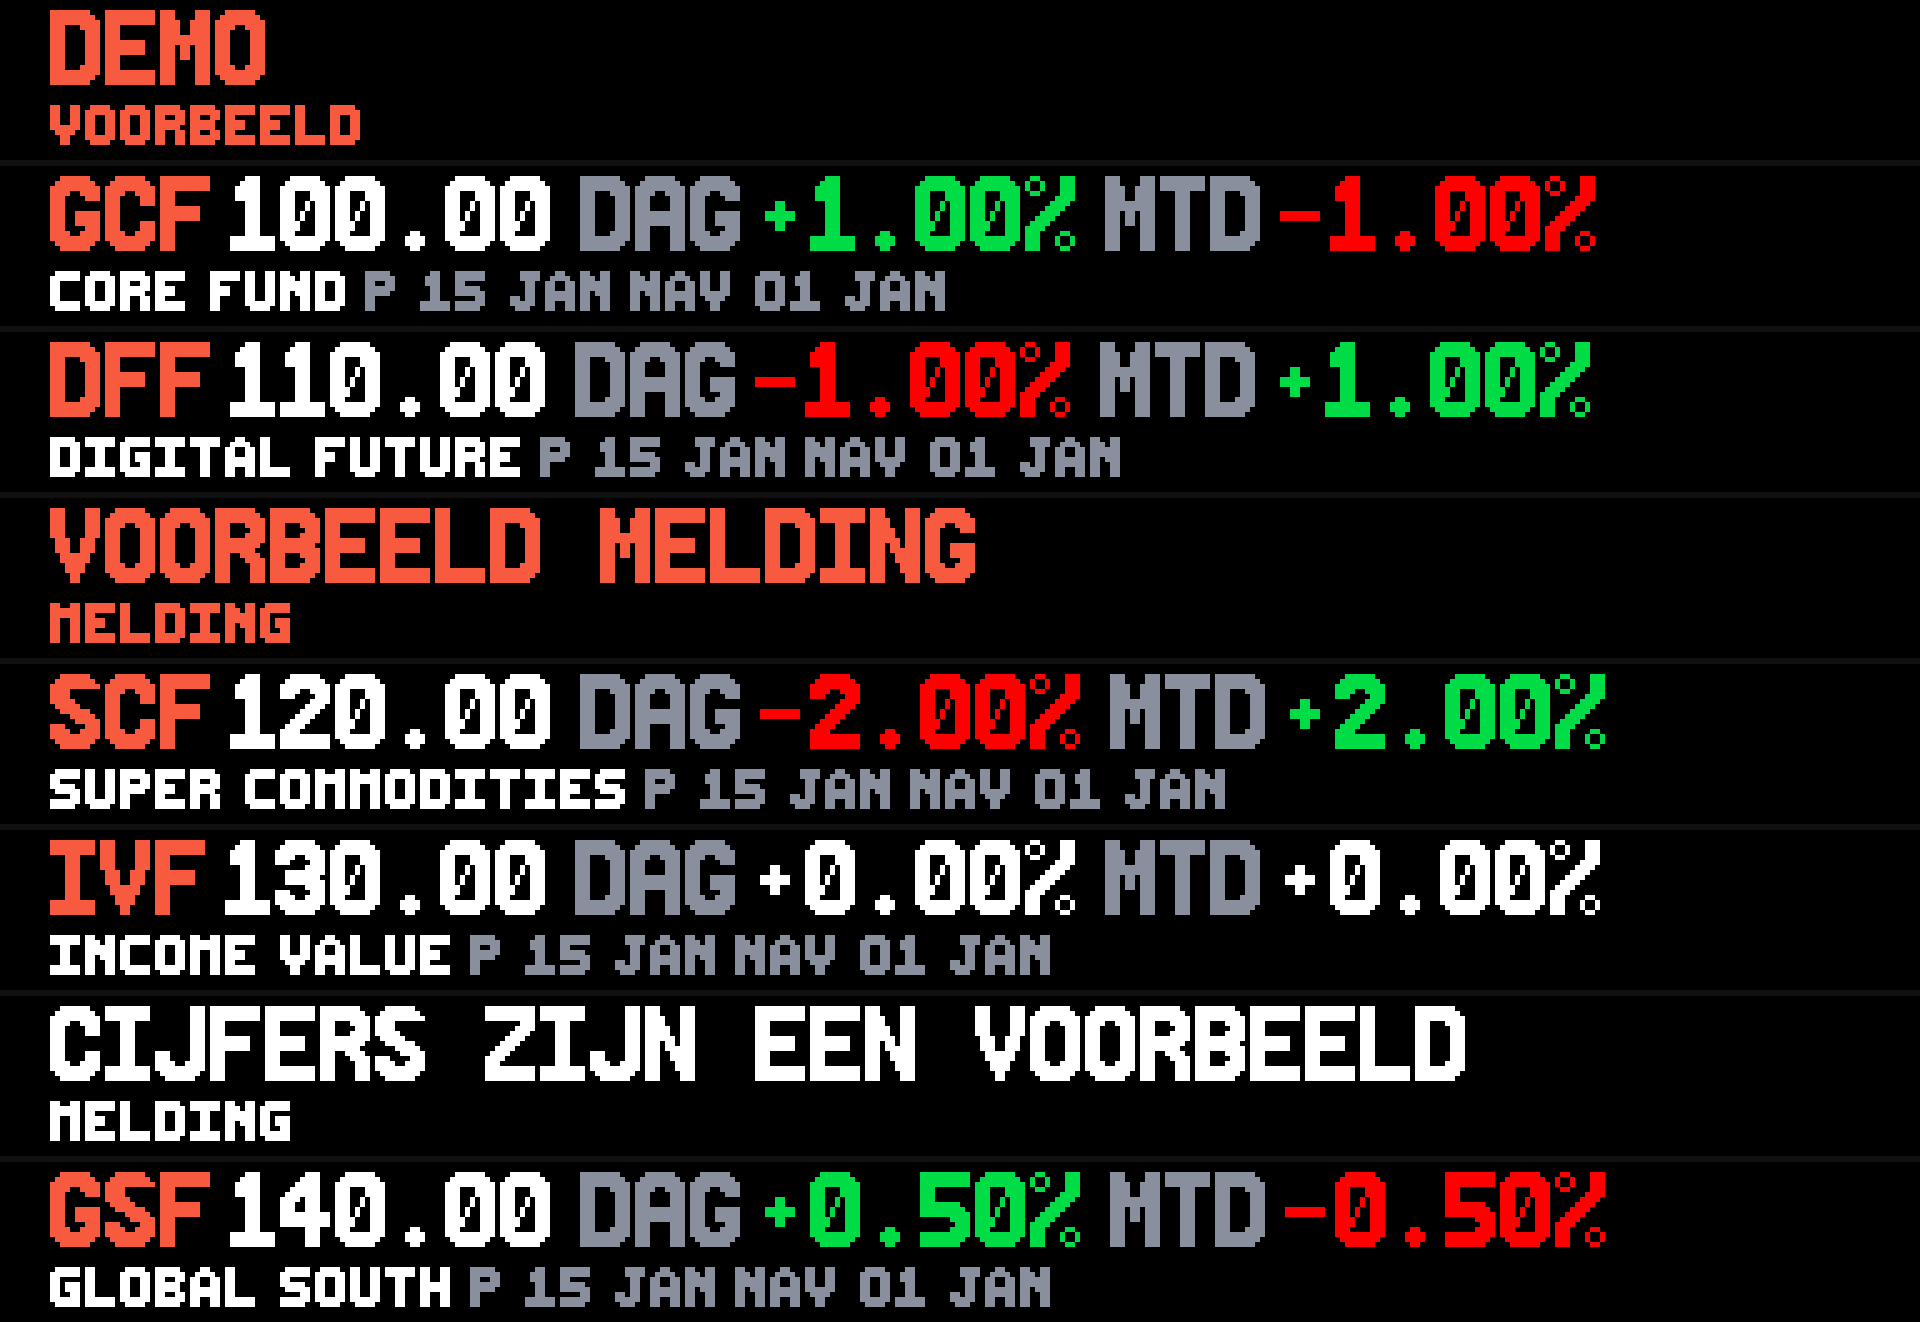
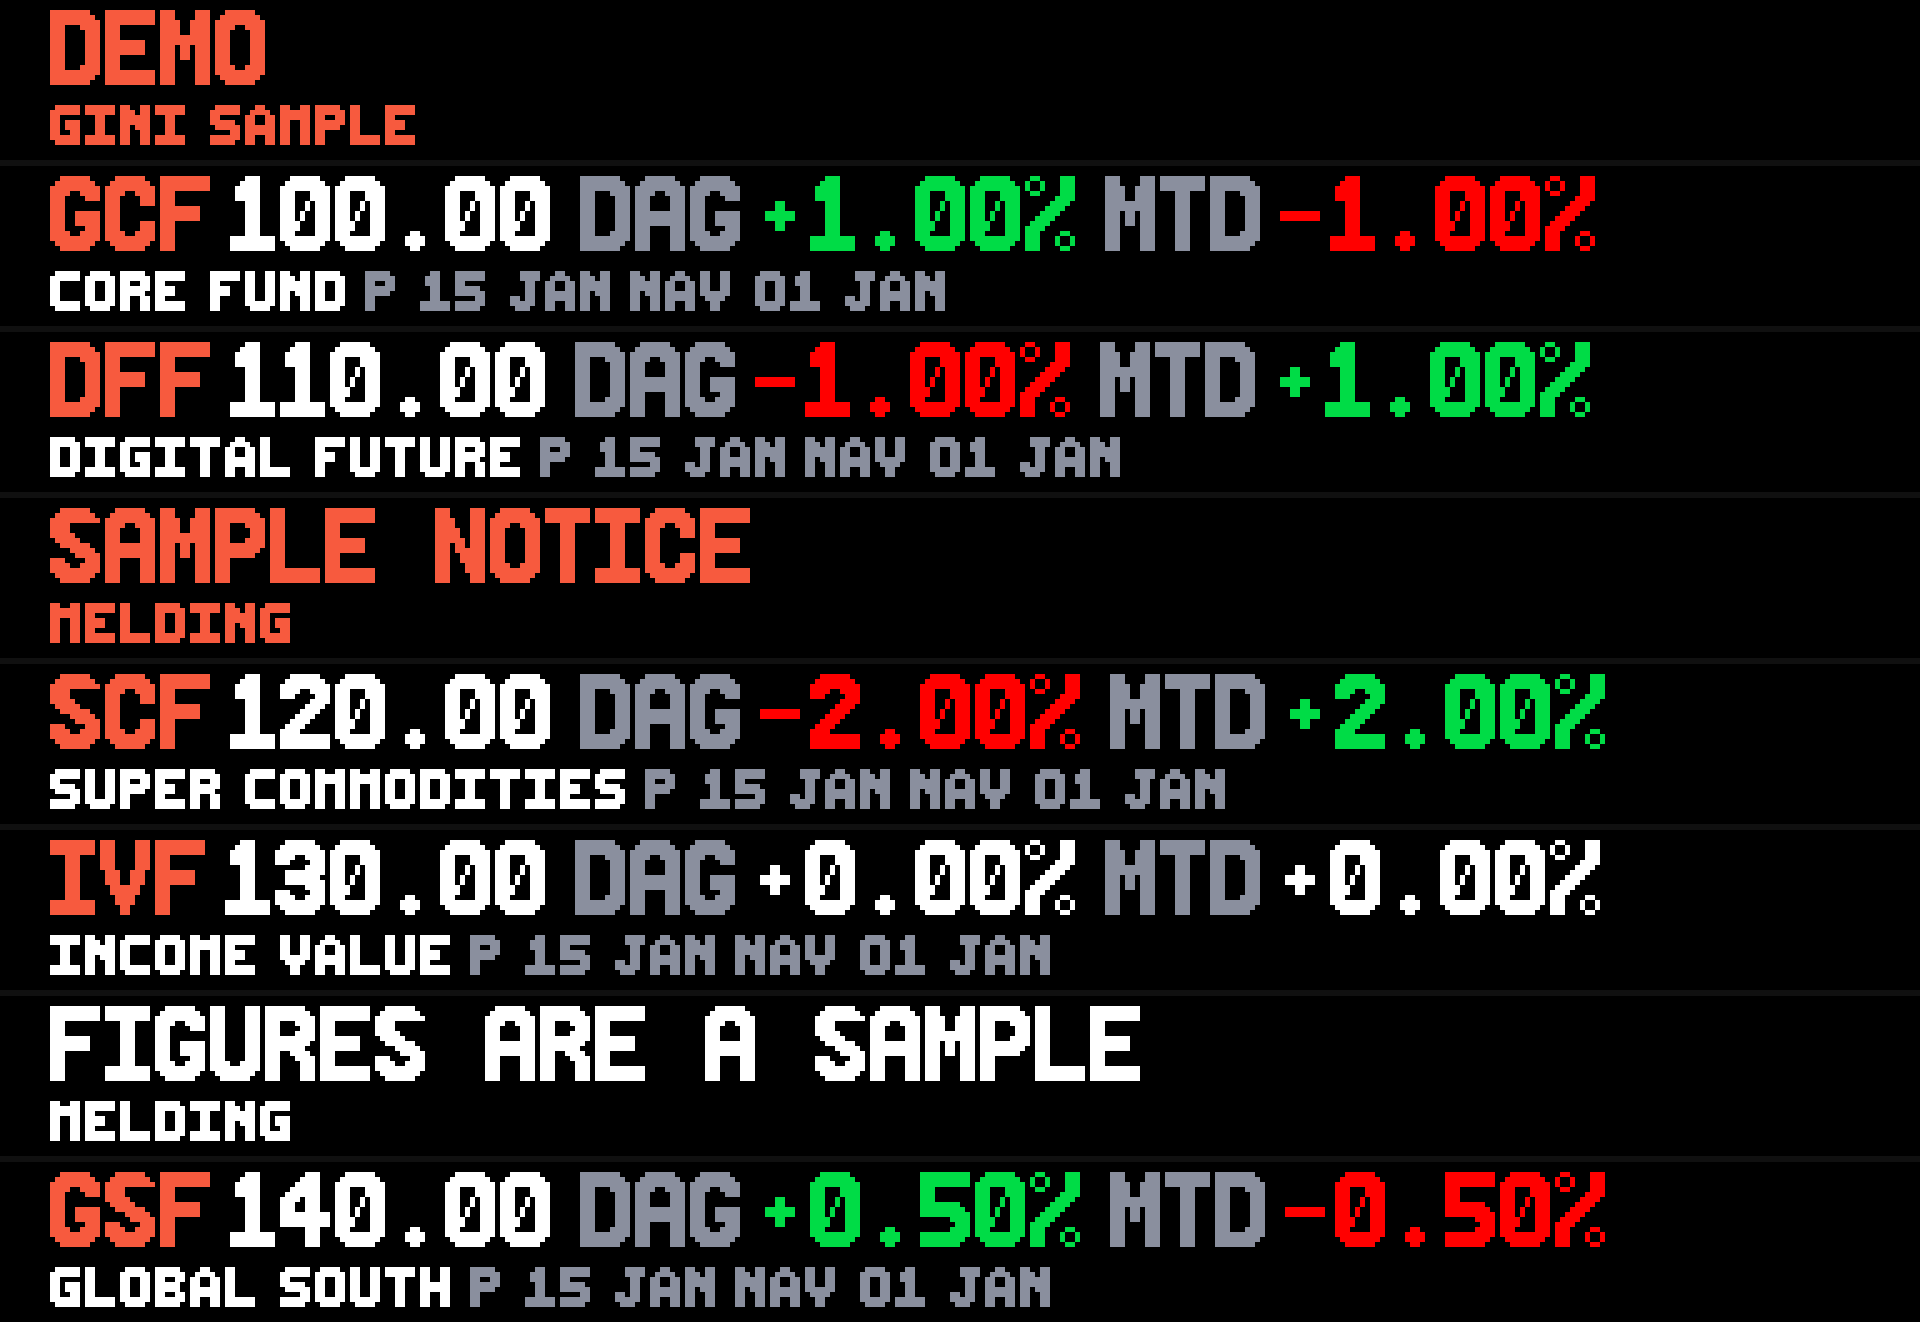
Finish the gini-fund-overview checklist states
Same drawing fixes as the 192 ticker: English public demo, a positive empty screen, and error text inside the 384 safe zone. The screen code stays free text because refresh is 300.

diff --git a/apps/gini-fund-overview/README.md b/apps/gini-fund-overview/README.md
@@ -12,7 +12,7 @@ Ask a Gini Capital administrator for the read-only token.
 
 Paste it into **Toegangstoken**. That field is an api-key. Glance stores it encrypted and sends it only from Glance servers, in the header `X-Glance-Token`.
 
-Use a token made of letters and digits. With no token the panel shows a demo and does not call the server. The demo uses round sample figures, not live fund data.
+Use a token made of letters and digits. With no token the panel shows a demo and does not call the server. The first block reads DEMO / GINI SAMPLE. The notices read SAMPLE NOTICE and FIGURES ARE A SAMPLE. The figures are round samples, not live fund data.
 
 ## Funds
 
@@ -35,3 +35,11 @@ On the device, an underscore splits two settings before the app runs. A hyphen s
 Eight still pages. The Scroll panel moves those pages to the left. Each fund and each message stays inside one page.
 
 The fund code is orange. The day figure and the month to date figure are green for a plus, red for a minus, and white for zero. A message follows every two funds.
+
+## Screens
+
+- Demo. No token. Labelled DEMO. Sample figures only. No request.
+- Live. A token and a 200 response. The round opens with GINI / FONDS, then the funds and notices from that response.
+- Error. No access, too many requests, or no connection. Two lines: what happened, and what to do. Amber title.
+- Empty. A 200 response with no funds and no notices. Green ALL CLEAR, then NIETS TE MELDEN. That is not the error card.
+- No price yet. Funds came back with no figures and there is no notice. Amber NOG GEEN KOERS / WACHT OP DATA.
